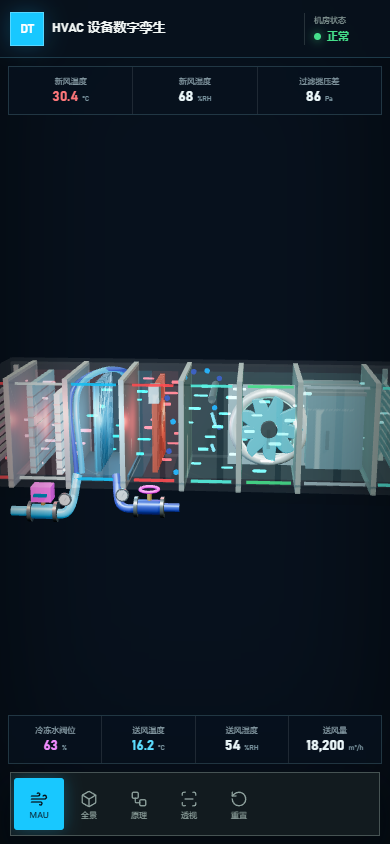
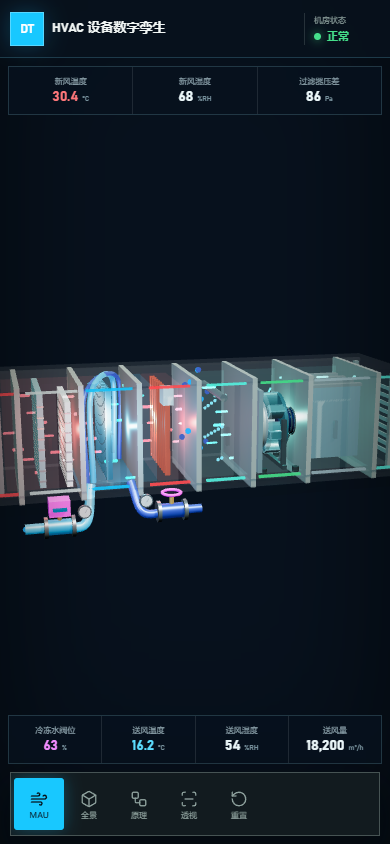
docs: 更新 MAU EC 风机展示截图（任务 4/4）

Changed region(s): [[0.0, 0.4005, 1.0, 0.6469]]

diff --git a/src/scene/equipment/mau.js b/src/scene/equipment/mau.js
@@ -71,7 +71,7 @@ export function buildMau(options = {}) {
   internals.push(humidifier);
 
   const fan = createSupplyFan(materials);
-  fan.position.set(1.18, 1.02, 0);
+  fan.position.set(1.18, 1.02, 0.16);
   group.add(fan);
   internals.push(fan);
   rotors.push(fan.getObjectByName("supply-fan-rotor"));
@@ -436,8 +436,8 @@ function createSupplyFan(materials) {
   group.rotation.y = -Math.PI / 2;
 
   const steel = standard(0x9fb2b5, { roughness: 0.38, metalness: 0.58 });
-  const wheel = standard(0x397f8b, { roughness: 0.26, metalness: 0.68, emissive: 0x164d57, emissiveIntensity: 0.12 });
-  const shroud = physical(0x8bb7bd, { roughness: 0.22, metalness: 0.46, transparent: true, opacity: 0.56 });
+  const wheel = standard(0x4a8f99, { roughness: 0.26, metalness: 0.68, emissive: 0x164d57, emissiveIntensity: 0.12 });
+  const shroud = physical(0x8bb7bd, { roughness: 0.22, metalness: 0.46, transparent: true, opacity: 0.34 });
   const frameMaterial = standard(0x4a5b5e, { roughness: 0.48, metalness: 0.64 });
 
   const inletPanel = new THREE.Group();
@@ -468,6 +468,8 @@ function createSupplyFan(materials) {
   const frontShroud = new THREE.Mesh(createAnnularGeometry(0.5, 0.2, 0.055), shroud);
   frontShroud.name = "supply-fan-front-shroud";
   frontShroud.position.z = 0.13;
+  frontShroud.material.depthWrite = false;
+  frontShroud.renderOrder = 5;
   rotor.add(frontShroud);
   rotor.add(cylinder(0.48, 0.055, wheel, { position: [0, 0, -0.15], rotation: [Math.PI / 2, 0, 0], segments: 48, name: "supply-fan-rear-disc" }));
 
@@ -486,11 +488,17 @@ function createSupplyFan(materials) {
     bevelThickness: 0.009,
   });
   bladeGeometry.translate(0, 0, -0.13);
+  const bladeEdges = new THREE.EdgesGeometry(bladeGeometry, 28);
+  const bladeEdgeMaterial = new THREE.LineBasicMaterial({ color: 0x93d7df, transparent: true, opacity: 0.55, toneMapped: false });
   for (let index = 0; index < 7; index += 1) {
     const blade = new THREE.Mesh(bladeGeometry, wheel);
     blade.name = `supply-fan-blade-${index + 1}`;
     blade.rotation.z = (index * Math.PI * 2) / 7 + 0.12;
     blade.castShadow = true;
+    const edges = new THREE.LineSegments(bladeEdges, bladeEdgeMaterial);
+    edges.name = `fan-blade-edge-${index + 1}`;
+    edges.renderOrder = 6;
+    blade.add(edges);
     rotor.add(blade);
   }
   group.add(rotor);

diff --git a/src/scene/create-showcase-scene.js b/src/scene/create-showcase-scene.js
@@ -102,7 +102,7 @@ export function createShowcaseScene({ canvas, onEquipmentSelect, onTourInterrupt
     const baseDistance = equipment.userData.focusDistance ?? 6;
     const distance = equipmentId === "MAU-01" && mobile ? baseDistance * 1.86 : baseDistance;
     const direction = equipmentId === "MAU-01"
-      ? new THREE.Vector3(-0.18, 0.24, 1.0).normalize()
+      ? new THREE.Vector3(-0.25, 0.24, 1.0).normalize()
       : new THREE.Vector3(1.15, 0.62, 1.25).normalize();
     beginCameraTween(focus.clone().add(direction.multiplyScalar(distance)), focus);
     selectEquipment(equipmentId);